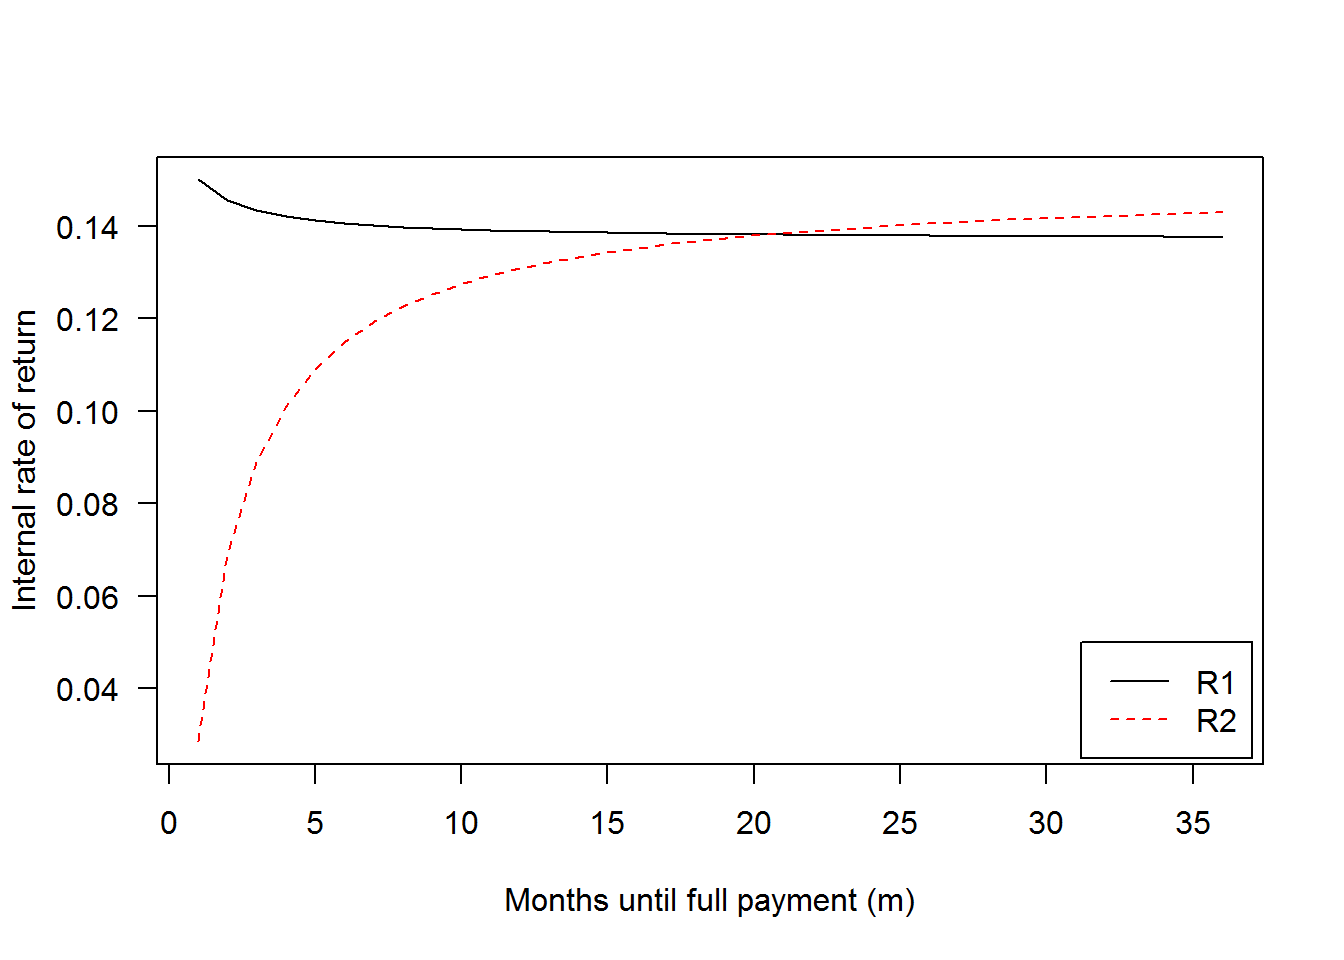
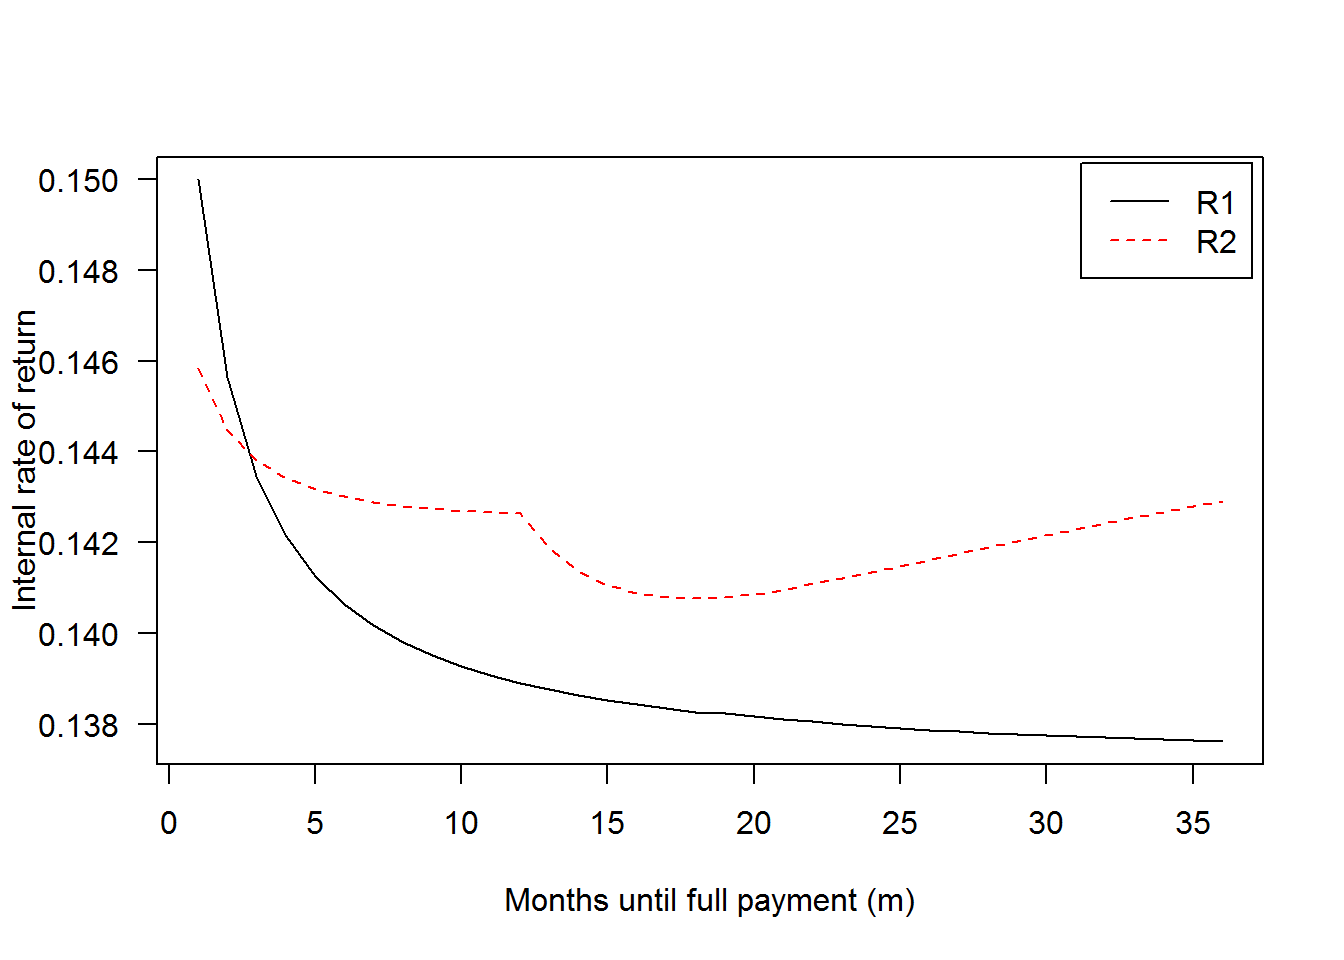
update to include prepayment protection

diff --git a/content/blog/2017-09-08-calculating-returns-for-two-kinds-of-servicing-fee-schemes-supplement.html b/content/blog/2017-09-08-calculating-returns-for-two-kinds-of-servicing-fee-schemes-supplement.html
@@ -10,14 +10,17 @@ tags: []
 
 
 <p><em>This post is a supplement to <a href="https://sirallen.name/blog/note-on-lending-club/">A Note on Lending Club and Institutional Investment</a>, which shows that institutional investors tend to fund loans that will be prepaid. Below is a short mathematical justification for why it makes sense for them to do so, given Lending Club’s policy on servicing fees.</em></p>
-<p>Suppose we’d like to compute the internal rate of return<a href="#fn1" class="footnoteRef" id="fnref1"><sup>1</sup></a> (IRR) for a loan investment based on two different fee schemes. The first (call it <span class="math inline">\(\mathcal{R}_1\)</span>) charges a fee <span class="math inline">\(s_1\)</span> in proportion to each period’s outstanding principal balance, while the second (<span class="math inline">\(\mathcal{R}_2\)</span>) charges a fee <span class="math inline">\(s_2\)</span> on all payments by the borrower. The borrower can “prepay” a loan with term <span class="math inline">\(T\)</span> by paying off the entire principal in <span class="math inline">\(m &lt; T\)</span> months. Given initial principal <span class="math inline">\(P_0\)</span>, monthly interest rate <span class="math inline">\(r\)</span>, payment periods <span class="math inline">\(m\)</span>, and payment sequence <span class="math inline">\(\{A_i\}_{i=1}^m\)</span>, the principal amortizes according to <span class="math display">\[
+<p>Suppose we’d like to compute the internal rate of return<a href="#fn1" class="footnoteRef" id="fnref1"><sup>1</sup></a> (IRR) for a loan investment based on two different fee schemes. The first (call it <span class="math inline">\(\mathcal{R}_1\)</span>) charges a fee <span class="math inline">\(s_1\)</span> in proportion to each period’s outstanding principal balance, while the second (<span class="math inline">\(\mathcal{R}_2\)</span>) charges a fee <span class="math inline">\(s_2\)</span> on all payments by the borrower, up to the contractual monthly payment in the first 12 months.<a href="#fn2" class="footnoteRef" id="fnref2"><sup>2</sup></a> (<span class="math inline">\(\mathcal{R}_1\)</span> and <span class="math inline">\(\mathcal{R}_2\)</span> represent fees levied on insitutional (whole loan) investors and retail (Note) investors, respectively.) The borrower can “prepay” a loan with term <span class="math inline">\(T\)</span> by paying off the entire principal in <span class="math inline">\(m &lt; T\)</span> months. Given initial principal <span class="math inline">\(P_0\)</span>, monthly interest rate <span class="math inline">\(r\)</span>, payment periods <span class="math inline">\(m\)</span>, and payment sequence <span class="math inline">\(\{A_i\}_{i=1}^m\)</span>, the principal amortizes according to <span class="math display">\[
 P_i = (1+r)P_{i-1} - A_i = (1+r)^i P_0 - \sum_{j=1}^i (1+r)^{i-j} A_j
 \]</span> and the corresponding IRRs <span class="math inline">\(R_1\)</span> and <span class="math inline">\(R_2\)</span> satisfy <span class="math display">\[
 P_0 = \sum_{i=1}^m \left(1 + \frac{R_1}{12} \right)^{-i} (A_i - s_1 P_i) \\
-P_0 = (1 - s_2) \sum_{i=1}^m \left(1 + \frac{R_2}{12} \right)^{-i} A_i.
-\]</span> First assuming constant monthly payments given <span class="math inline">\(m\)</span>, <span class="math display">\[
+P_0 = \sum_{i=1}^m \left(1 + \frac{R_2}{12} \right)^{-i} \big(A_i - s_2 Y_i \big),
+\]</span> where <span class="math inline">\(Y_i = \min(I, A_i)\)</span> if <span class="math inline">\(i \leq 12\)</span> and <span class="math inline">\(A_i\)</span> otherwise, and <span class="math inline">\(I\)</span> is the <em>installment</em> (or minimum payment) given by <span class="math display">\[
+I = P_0 \frac{r(1+r)^T}{(1+r)^T - 1}.
+\]</span></p>
+<p>First assuming constant monthly payments given <span class="math inline">\(m\)</span>, <span class="math display">\[
 A_i = P_0 \frac{r(1+r)^m}{(1+r)^m - 1} \equiv A,
-\]</span> we can use the following code to see how <span class="math inline">\(R_1\)</span> and <span class="math inline">\(R_2\)</span> vary with <span class="math inline">\(m\)</span>. Note that by construction, i.e., by the choice of <span class="math inline">\(\{A_i\}\)</span>, we have <span class="math inline">\(P_m = 0\)</span>. Also note that the result doesn’t depend on <span class="math inline">\(P_0\)</span> (it can be normalized to 1), though I’ve kept it to make the calculations more explicit.</p>
+\]</span> we can use the following code to see how <span class="math inline">\(R_1\)</span> and <span class="math inline">\(R_2\)</span> vary with <span class="math inline">\(m\)</span>. Note that by construction, i.e., by the choice of <span class="math inline">\(\{A_i\}\)</span>, we have <span class="math inline">\(P_m = 0\)</span>. Also note that the result doesn’t depend on <span class="math inline">\(P_0\)</span>, though I’ve kept it to make the calculations more explicit.</p>
 <pre class="r"><code>A = function(P0, r, m) {
   # P0 -- initial principal
   # r  -- interest rate (monthly)
@@ -49,13 +52,15 @@ R2 = Vectorize(
   function(s, P0, r, m) {
     # s  -- service fee rate (monthly, on payments)
     # P0, r, m -- args to A()
+    A_ = rep(A(P0, r, m), m)
+    Y_ = replace(A_, 1:min(m, 12), A(P0, r, 36))
     fun = function(z) (P0 - sum((1 + z/12)^-(1:m) *
-                                  (1 - s) * A(P0, r, m)))^2
+                                  (A_ - s * Y_)))^2
     # solve for IRR
     optimize(fun, interval=c(0, .5))$minimum
   },
   vectorize.args = &#39;m&#39;)</code></pre>
-<p>The test case below is a loan with $1000 principal (again, doesn’t matter) and 15% annual interest rate, with fees <span class="math inline">\(s_1\)</span> and <span class="math inline">\(s_2\)</span> equal to 1.3% per annum and 1%, respectively. (According to Lending Club’s policy for whole loans, <span class="math inline">\(s_1\)</span> is variable but 1.3% per annum is the <em>highest</em> servicing fee it will charge. A lower <span class="math inline">\(s_1\)</span> will increase <span class="math inline">\(R_1\)</span>, up to the interest rate when <span class="math inline">\(s_1 = 0\)</span>.)</p>
+<p>The test case below is a loan with $1000 principal and 15% annual interest rate, with fees <span class="math inline">\(s_1\)</span> and <span class="math inline">\(s_2\)</span> equal to 1.3% per annum and 1%, respectively. (According to Lending Club’s policy for whole loans, <span class="math inline">\(s_1\)</span> is variable but 1.3% per annum is the <em>highest</em> servicing fee it will charge. A lower <span class="math inline">\(s_1\)</span> will increase <span class="math inline">\(R_1\)</span>, up to the interest rate when <span class="math inline">\(s_1 = 0\)</span>.)</p>
 <pre class="r"><code># Returns for institutional (whole loan) investors
 r_inst = R1(s=.013/12, P0=1000, r=.15/12, m=1:36)
 
@@ -65,11 +70,11 @@ r_ret  = R2(s=.01, P0=1000, r=.15/12, m=1:36)
 matplot(1:36, cbind(r_inst, r_ret), las=1, type=&#39;l&#39;,
         xlab=&#39;Months until full payment (m)&#39;,
         ylab=&#39;Internal rate of return&#39;)
-legend(&#39;bottomright&#39;, c(&#39;R1&#39;,&#39;R2&#39;), lty=c(1,2), col=c(&#39;black&#39;,&#39;red&#39;),
+legend(&#39;topright&#39;, c(&#39;R1&#39;,&#39;R2&#39;), lty=c(1,2), col=c(&#39;black&#39;,&#39;red&#39;),
        inset=.01)</code></pre>
 <p><img src="/blog/2017-09-08-calculating-returns-for-two-kinds-of-servicing-fee-schemes-supplement_files/figure-html/unnamed-chunk-2-1.png" width="672" /></p>
-<p>This isn’t a complete picture since it doesn’t account for returns from reinvestment (purchasing new Notes or whole loans after receiving each <span class="math inline">\(A_i\)</span>, which can be done recursively). But it’s clear that investors who are charged fees under scheme <span class="math inline">\(\mathcal{R}_1\)</span> can achieve a higher return with early payment, i.e., <code>$ \Delta_m R_1 &lt; 0$</code>. The gains look small but may be significant for investors with very large portfolios. In contrast, early payment is a suboptimal outcome under scheme <span class="math inline">\(\mathcal{R}_2\)</span>, and severely suboptimal for small <span class="math inline">\(m\)</span>.</p>
-<p>We can’t yet declare the matter settled as there’s a potential problem with the above graph. Empirically, given <span class="math inline">\(m\)</span>, the borrower tends to back-load prepayment to later periods, so the assumption of fixed payments isn’t very realistic. (I checked this using Lending Club’s payments data, but I’ll defer the evidence to a future post.) A more realistic flow of payments would be constant installments for <span class="math inline">\(m-1\)</span> periods (computed with the formula for <span class="math inline">\(A_i\)</span> using the loan term <span class="math inline">\(T\)</span> in place of <span class="math inline">\(m\)</span>, which gives the <em>minimum</em> amount the borrower must pay each month), and one large payment to expunge all outstanding principal (with interest) in period <span class="math inline">\(m\)</span>.</p>
+<p>This isn’t a complete picture since it doesn’t account for returns from reinvestment (purchasing new Notes or whole loans after receiving each <span class="math inline">\(A_i\)</span>, which can be done recursively). But it’s clear that investors who are charged fees under scheme <span class="math inline">\(\mathcal{R}_1\)</span> can achieve a higher return with early payment, i.e., <code>$ \Delta_m R_1 &lt; 0$</code>. The gains are relatively small but may be significant for investors with very large portfolios. With prepayment protection, early payment is also the most desirable outcome under scheme <span class="math inline">\(\mathcal{R}_2\)</span>, although the curve is upward-sloping for <span class="math inline">\(m &gt; 17\)</span>.</p>
+<p>We can’t yet declare the matter settled as there’s a potential problem with the above graph. Empirically, given <span class="math inline">\(m\)</span>, the borrower tends to back-load prepayment to later periods, so the assumption of fixed payments isn’t very realistic. (I checked this using Lending Club’s payments data, but I’ll defer the evidence to a future post.) A more realistic flow of payments would be constant installments for <span class="math inline">\(m-1\)</span> periods and one large payment to expunge all outstanding principal (with interest) in period <span class="math inline">\(m\)</span>.</p>
 <p>It’s straightforward to modify the functions above to accomodate non-constant payments:</p>
 <pre class="r"><code>P_i = Vectorize(
   # Compute outstanding principal after i payments
@@ -104,8 +109,9 @@ R2 = Vectorize(
     # s  -- service fee rate (monthly, on payments)
     # P0, r, m -- args to A()
     A_seq = gen_A_seq(P0, r, m)
+    Y_seq = replace(A_seq, 1:min(m, 12), A(P0, r, 36))
     fun = function(z) (P0 - sum((1 + z/12)^-(1:m) *
-                                  (1 - s) * A_seq))^2
+                                  (A_seq - s * Y_seq)))^2
     # solve for IRR
     optimize(fun, interval=c(0, .5))$minimum
   },
@@ -120,14 +126,38 @@ r_ret  = R2(s=.01, P0=1000, r=.15/12, m=1:36)
 matplot(1:36, cbind(r_inst, r_ret), las=1, type=&#39;l&#39;,
         xlab=&#39;Months until full payment (m)&#39;,
         ylab=&#39;Internal rate of return&#39;)
-legend(&#39;bottomright&#39;, c(&#39;R1&#39;,&#39;R2&#39;), lty=c(1,2), col=c(&#39;black&#39;,&#39;red&#39;),
+legend(&#39;topright&#39;, c(&#39;R1&#39;,&#39;R2&#39;), lty=c(1,2), col=c(&#39;black&#39;,&#39;red&#39;),
        inset=.01)</code></pre>
 <p><img src="/blog/2017-09-08-calculating-returns-for-two-kinds-of-servicing-fee-schemes-supplement_files/figure-html/unnamed-chunk-3-1.png" width="672" /></p>
-<p>With this more realistic payment sequence, the picture looks very similar—the endpoints of the two curves are the same as before since the two versions of <span class="math inline">\(\{A_i\}\)</span> are identical for <span class="math inline">\(m = 1\)</span> and <span class="math inline">\(m = T\)</span>. An investor would still benefit from early payment under <span class="math inline">\(\mathcal{R}_1\)</span>, though the “penalty” on returns of one additional month—corresponding to the slope of the curve—is slightly larger for small <span class="math inline">\(m\)</span>. The curvature of <span class="math inline">\(\mathcal{R}_2\)</span> is also a little bit more pronounced; notice the shift in the point of intersection.</p>
-<p>Keep in mind that this example only evaluates ex-post returns; when an investor is actually choosing loans on Lending Club, <span class="math inline">\(m\)</span> and <span class="math inline">\(\{A_i\}\)</span> are unknown and there is non-negligible risk of borrower default. If prepayment and default are both correlated with variable <span class="math inline">\(X\)</span>, then selecting on <span class="math inline">\(X\)</span> may diminish gains from prepayment for whole loan investors compared to above.</p>
+<p>With this more realistic payment sequence, an investor will still desire early payment under <span class="math inline">\(\mathcal{R}_1\)</span>, although he will face strictly lower returns for all <span class="math inline">\(m \notin \{1, 36\}\)</span>. In particular, the slope of the curve <span class="math inline">\(R_1(m)\)</span> is even more severe for small <span class="math inline">\(m\)</span>, corresponding to a larger “penalty” on returns of one additional month. In contrast, returns are higher under <span class="math inline">\(\mathcal{R}_2\)</span> for <span class="math inline">\(m \leq 12\)</span>, although <span class="math inline">\(m &gt; 13\)</span> yields lower returns since prepayment protection will not extend to the large final payment. Note that the endpoints of the two curves are the same as before since the two versions of <span class="math inline">\(\{A_i\}\)</span> are identical for <span class="math inline">\(m = 1\)</span> and <span class="math inline">\(m = T\)</span>.</p>
+<p>To give a better sense of the role of prepayment protection, I’ll add a line for a scheme (call it <span class="math inline">\(\mathcal{R}_2^a\)</span>) which charges a 1% fee on all borrower payments. The difference is stark:</p>
+<pre class="r"><code>R2a = Vectorize(
+  function(s, P0, r, m=36) {
+    # s  -- service fee rate (monthly, on payments)
+    # P0, r, m -- args to A()
+    A_seq = gen_A_seq(P0, r, m)
+    fun = function(z) (P0 - sum((1 + z/12)^-(1:m) *
+                                  (1 - s) * A_seq))^2
+    # solve for IRR
+    optimize(fun, interval=c(0, .5))$minimum
+  },
+  vectorize.args = &#39;m&#39;)
+
+# Returns for retail (Note) investors, no prepayment protection
+r_ret_no_protection = R2a(s=.01, P0=1000, r=.15/12, m=1:36)
+
+matplot(1:36, cbind(r_inst, r_ret, r_ret_no_protection), las=1, type=&#39;l&#39;,
+        col=c(&#39;black&#39;,&#39;red&#39;,&#39;darkred&#39;),
+        xlab=&#39;Months until full payment (m)&#39;,
+        ylab=&#39;Internal rate of return&#39;)
+legend(&#39;bottomright&#39;, c(&#39;R1&#39;,&#39;R2&#39;,&#39;R2a&#39;), lty=1:3, col=c(&#39;black&#39;,&#39;red&#39;,&#39;darkred&#39;),
+       inset=.01)</code></pre>
+<p><img src="/blog/2017-09-08-calculating-returns-for-two-kinds-of-servicing-fee-schemes-supplement_files/figure-html/unnamed-chunk-4-1.png" width="672" /></p>
+<p>Keep in mind that these examples only evaluate ex-post returns; when an investor is actually choosing loans on Lending Club, <span class="math inline">\(m\)</span> and <span class="math inline">\(\{A_i\}\)</span> are unknown and there is non-negligible risk of borrower default. If prepayment and default are both correlated with variable <span class="math inline">\(X\)</span>, then selecting on <span class="math inline">\(X\)</span> may diminish gains from prepayment compared to above.</p>
 <div class="footnotes">
 <hr />
 <ol>
 <li id="fn1"><p>The <a href="https://en.wikipedia.org/wiki/Internal_rate_of_return">internal rate of return</a> is the interest rate at which the present value of cash flows equals the initial capital. I elected to use a nominal rate, but one could just as well use the effective rate. They’re related by <span class="math inline">\((1 + R_{nom}/12)^{12} = 1 + R_{eff}\)</span>.<a href="#fnref1">↩</a></p></li>
+<li id="fn2"><p>I’ll subsequently refer to this as <em>prepayment protection</em>. See <a href="https://www.lendingclub.com/public/rates-and-fees.action" class="uri">https://www.lendingclub.com/public/rates-and-fees.action</a>.<a href="#fnref2">↩</a></p></li>
 </ol>
 </div>

diff --git a/content/blog/2017-09-13-optimal-payment-sequence.html b/content/blog/2017-09-13-optimal-payment-sequence.html
@@ -10,7 +10,7 @@ tags: []
 
 
 <p><em>This post is a supplement to <a href="https://sirallen.name/blog/calculating-returns-for-two-kinds-of-servicing-fee-schemes-supplement/">Calculating Returns for Two Kinds of Servicing Fee Schemes</a>.</em></p>
-<p>In the previous post I explored the question of why, given one of two servicing fee schemes, an investor in Lending Club loans may or may not desire early payment by the borrower. I assumed the payment sequence <span class="math inline">\(\{A_i\}\)</span> to make my case, but it’s easy to imagine the more general question of, What is the best <span class="math inline">\(\{A_i\}\)</span> an investor could hope for, given <span class="math inline">\(m\)</span>? From an investing standpoint, this isn’t really a useful question to ask—after all, investors don’t get to choose how the borrower repays. But it sounds like it might be an interesting math problem, so why not?</p>
+<p>In the previous post I explored the question of why an investor in Lending Club loans may or may not desire early payment by the borrower, depending on how servicing fees are levied. I assumed the payment sequence <span class="math inline">\(\{A_i\}\)</span> to make my case, but it’s easy to imagine the more general question of, What is the best <span class="math inline">\(\{A_i\}\)</span> an investor could hope for, given <span class="math inline">\(m\)</span>? From an investing standpoint, this isn’t really a useful question to ask—after all, investors don’t get to choose how the borrower repays. But it sounds like it might be an interesting math problem, so why not?</p>
 <p>Formally, given <span class="math inline">\((P_0, r, m, T)\)</span> we’d like to know what sequence of payments <span class="math inline">\(\{A_i\}_{i=1}^m\)</span> maximizes the investor’s (nominal) IRR, where principal amortizes according to <span class="math display">\[
 P_i = (1 + r)P_{i-1} - A_i = (1+r)^i P_0 - \sum_{j=1}^i (1+r)^{i-j} A_j.
 \]</span> In addition, there are constraints <span class="math inline">\(P_m = 0\)</span> and <span class="math inline">\(A_i \geq I\)</span> for <span class="math inline">\(i \neq m\)</span>, where <span class="math inline">\(I\)</span> is the <em>installment</em> <span class="math display">\[
